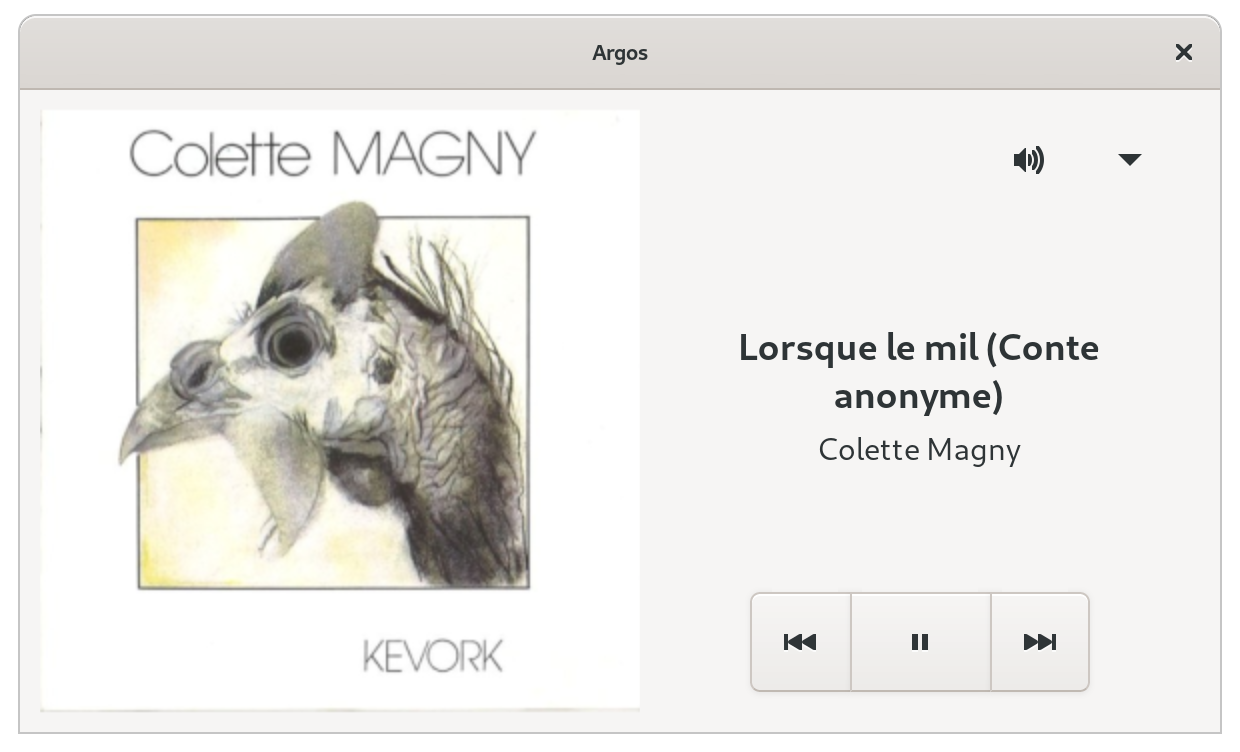
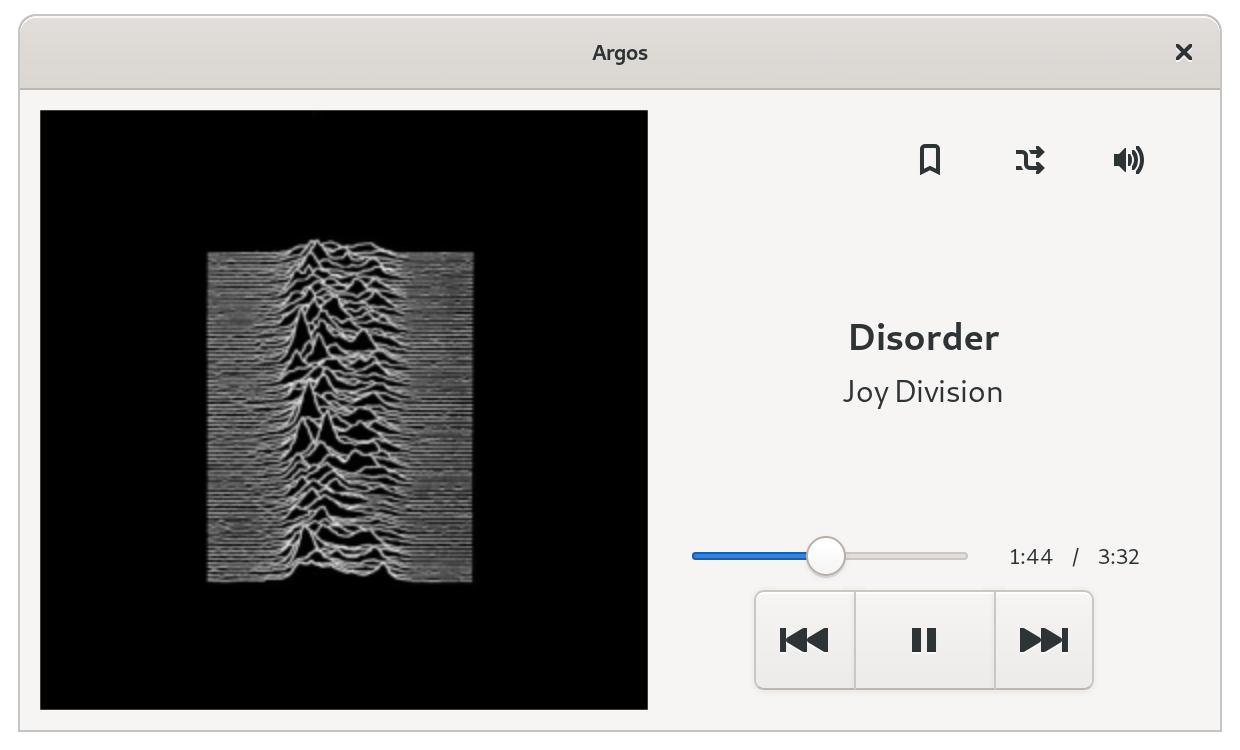
Add time position widgets, desktop file, and Makefile

diff --git a/argos/ui.py b/argos/ui.py
@@ -3,9 +3,7 @@ import logging
 from pathlib import Path
 from typing import Optional, Tuple, Union
 
-import gi
-gi.require_version("Gtk", "3.0")
-from gi.repository import GdkPixbuf, Gio, GLib, Gtk
+from gi.repository import GdkPixbuf, GLib, Gtk
 
 from .message import Message, MessageType
 from .model import PlaybackState
@@ -15,6 +13,7 @@ LOGGER = logging.getLogger(__name__)
 
 IMAGE_SIZE = 300
 # TODO use widget size
+
 
 def compute_target_size(width: int, height: int) -> Union[Tuple[int, int],
                                                           Tuple[None, None]]:
@@ -44,7 +43,7 @@ def ms_to_text(value: Optional[int] = None) -> str:
     return text
 
 
-@Gtk.Template(filename='window.ui')
+@Gtk.Template(resource_path='/app/argos/Argos/window.ui')
 class ArgosWindow(Gtk.ApplicationWindow):
     __gtype_name__ = 'ArgosWindow'
 

diff --git a/argos/app.py b/argos/app.py
@@ -54,12 +54,11 @@ class Application(Gtk.Application):
         return 0
 
     def do_activate(self):
-        win = self.props.active_window
-        if not win:
-            win = ArgosWindow(application=self,
-                              message_queue=self._messages,
-                              loop=self._loop)
-        win.present()
+        if not self.window:
+            self.window = ArgosWindow(application=self,
+                                      message_queue=self._messages,
+                                      loop=self._loop)
+        self.window.present()
 
     def do_startup(self):
         Gtk.Application.do_startup(self)

diff --git a/argos/__main__.py b/argos/__main__.py
@@ -1,14 +1,17 @@
 #!/usr/bin/env python3
 
-"""Mopidy UI for argos.
-
-"""
+import importlib.resources
 import sys
 
-from .app import Application
+from gi.repository import Gio
 
 
 if __name__ == "__main__":
+    with importlib.resources.path("argos", "argos.gresource") as path:
+        resource = Gio.Resource.load(str(path))
+    resource._register()
+
+    from .app import Application
     app = Application()
     exit_status = app.run(sys.argv)
     sys.exit(exit_status)

diff --git a/argos/message.py b/argos/message.py
@@ -1,6 +1,3 @@
-"""Messages.
-
-"""
 from dataclasses import dataclass, field
 from enum import Enum
 from typing import Any, Dict

diff --git a/argos/model.py b/argos/model.py
@@ -1,6 +1,3 @@
-"""Model.
-
-"""
 from dataclasses import dataclass, field
 from enum import Enum
 from pathlib import Path

diff --git a/argos/session.py b/argos/session.py
@@ -1,6 +1,3 @@
-"""Handle a aiohttp client session.
-
-"""
 import aiohttp
 import contextlib
 import logging

diff --git a/argos/accessor.py b/argos/accessor.py
@@ -1,7 +1,3 @@
-"""Model manager.
-
-"""
-
 import asyncio
 import logging
 from pathlib import Path

diff --git a/argos/http.py b/argos/http.py
@@ -1,6 +1,3 @@
-"""Mopidy HTTP client.
-
-"""
 import logging
 import random
 from typing import Any

diff --git a/argos/ws.py b/argos/ws.py
@@ -1,6 +1,3 @@
-"""Listen to mopidy websocket.
-
-"""
 import asyncio
 import json
 import logging

diff --git a/argos/conf.py b/argos/conf.py
@@ -1,6 +1,3 @@
-"""Configuration.
-
-"""
 import logging
 
 LOGGER = logging.getLogger(__name__)

diff --git a/README.rst b/README.rst
@@ -17,15 +17,23 @@ Install dependencies at system level::
 
   sudo apt install -y python3-gi python3-gi-cairo python3-aiohttp
 
-Finally run::
+Build and install::
+
+  make
+  make install
+
+Run through your desktop application menu or the line command::
 
   python3 -m argos
 
 Debug
 ~~~~~
 
-One must first stop the service if installed::
+One can install dependencies in a dedicated virtual environment using
+``poetry``::
 
+  poetry shell
+  poetry install
   python3 -m argos --debug 
 
 For a list of supported command line arguments and defaults::
